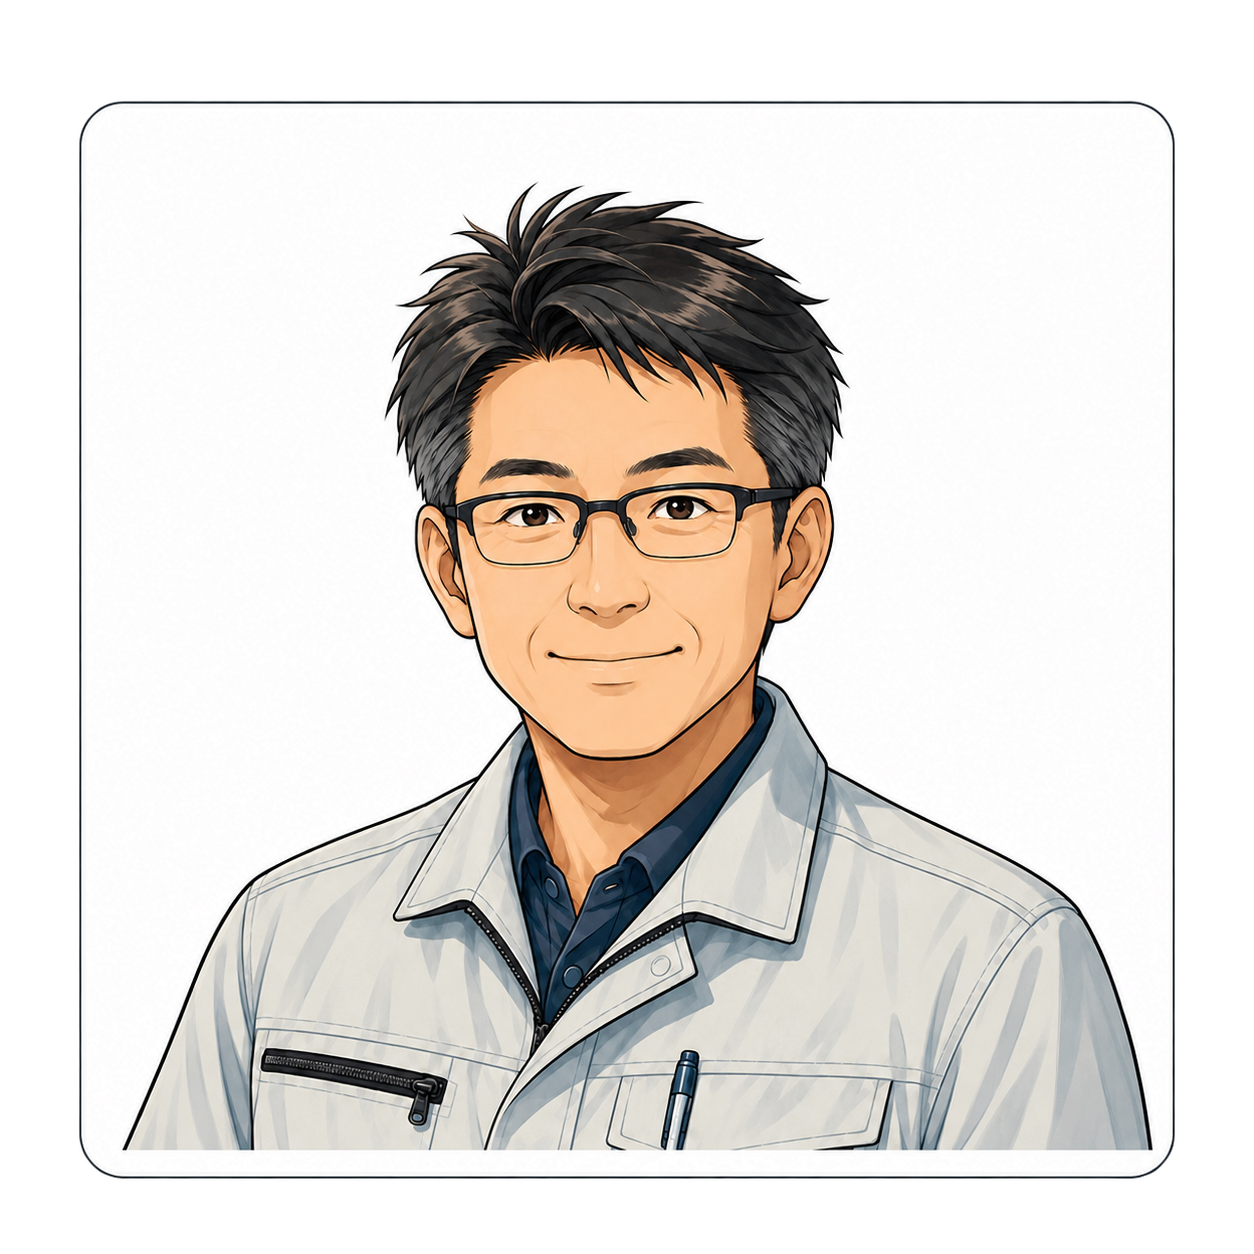
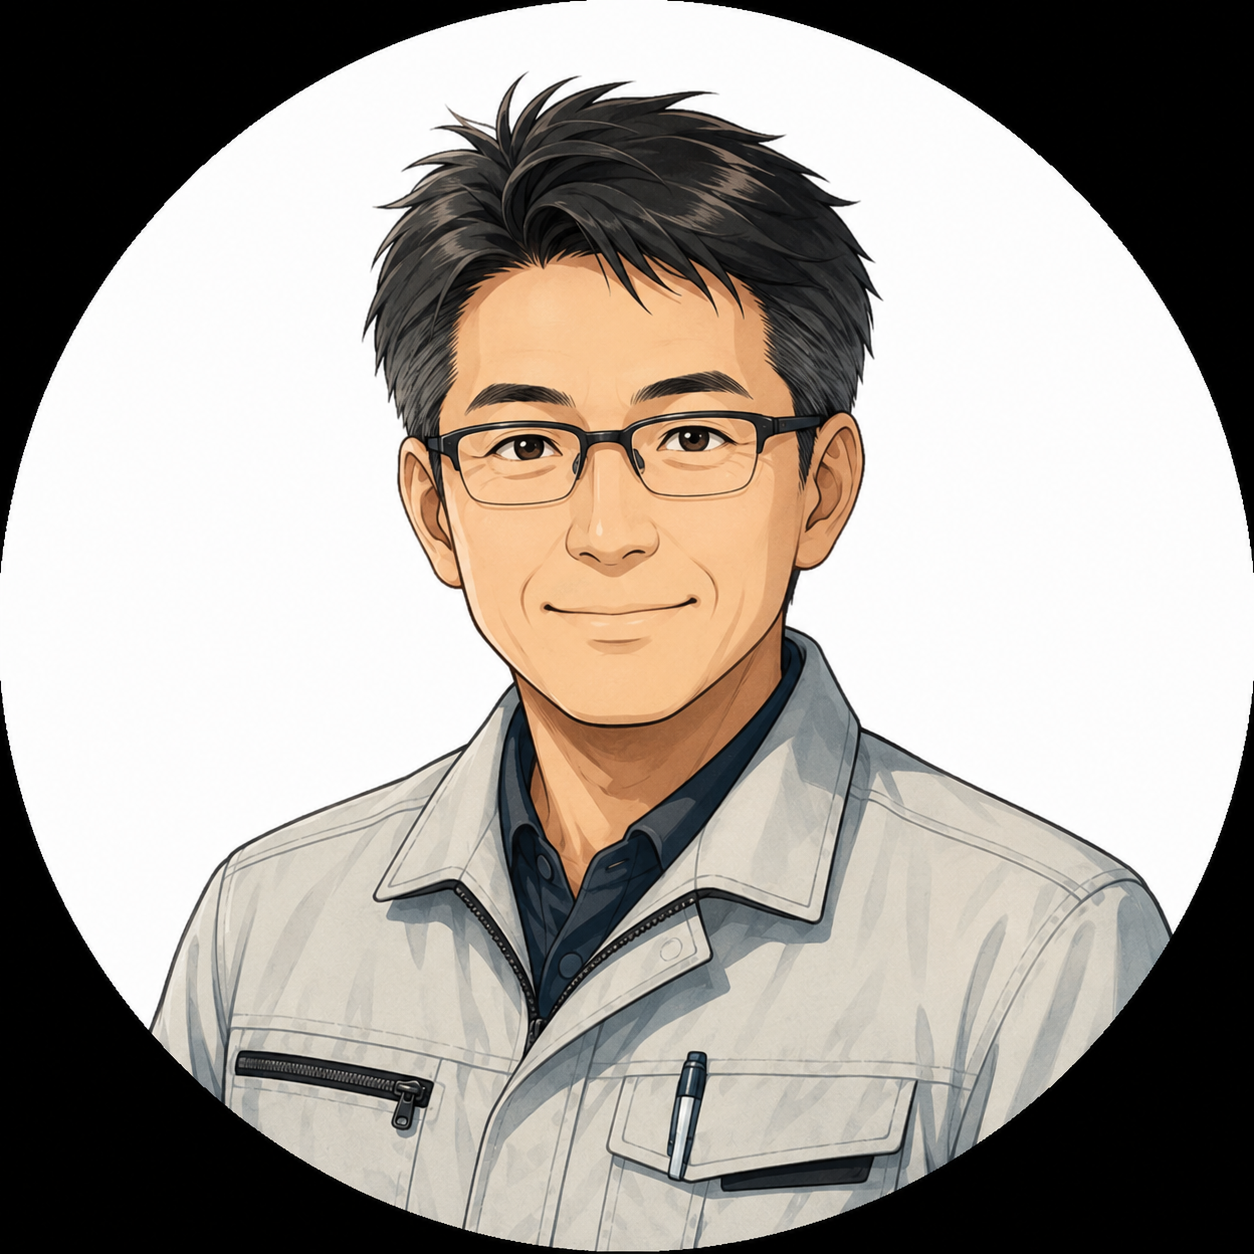
Add files via upload

diff --git a/index.html b/index.html
@@ -80,7 +80,9 @@
       width: 560px; height: 560px; border: 1px solid rgba(255,255,255,.12);
       border-radius: 50%; box-shadow: 0 0 0 36px rgba(255,255,255,.025), 0 0 0 72px rgba(255,255,255,.02);
     }
-    .hero-grid { display: grid; grid-template-columns: 1.25fr .75fr; gap: 70px; align-items: center; position: relative; z-index: 1; }
+    .hero-grid { display: grid; grid-template-columns: 1.05fr .95fr; gap: 52px; align-items: center; position: relative; z-index: 1; }
+    .hero-copy, .hero-side { min-width: 0; }
+    .hero-side { display: flex; flex-direction: column; gap: 24px; }
     .hero .eyebrow { color: var(--blue); }
     .hero h1 { max-width: 780px; margin-bottom: 25px; }
     .hero h1 span { color: #d9b77e; }
@@ -193,9 +195,9 @@
     .footer-inner { display: flex; justify-content: space-between; gap: 20px; }
 
     /* Existing image assets */
-    .hero-visual-wrap { margin-top: 28px; border-radius: 22px; overflow: hidden; background: #eef2f4; border: 1px solid #dfe5e8; }
-    .hero-visual { width: 100%; height: auto; max-height: 360px; object-fit: contain; object-position: center; }
-    .profile-image { width: 100%; aspect-ratio: 1 / 1; object-fit: cover; border-radius: 20px; border: 1px solid var(--line); background: white; }
+    .hero-visual-wrap { width: 100%; aspect-ratio: 4 / 3; border-radius: 22px; overflow: hidden; background: #eef2f4; border: 1px solid #dfe5e8; }
+    .hero-visual { width: 100%; height: 100%; object-fit: cover; object-position: 100% center; }
+    .profile-image { width: 100%; aspect-ratio: 1 / 1; object-fit: contain; object-position: center; padding: 8%; box-sizing: border-box; border-radius: 20px; border: 1px solid var(--line); background: white; }
     .profile-visual { display: flex; flex-direction: column; gap: 18px; }
     .experience-image { width: 100%; aspect-ratio: 16 / 9; object-fit: cover; border-radius: 18px; border: 1px solid var(--line); margin-bottom: 24px; }
     .experiment-card { padding: 0; overflow: hidden; }
@@ -211,6 +213,7 @@
       .hero-grid, .intro-grid, .experience-grid, .ai-grid { grid-template-columns: 1fr; gap: 40px; }
       .theme-grid { grid-template-columns: repeat(2, 1fr); }
       .hero { padding: 85px 0 75px; }
+      .hero-side { width: 100%; }
       .hero-card { max-width: 500px; }
       .experiment-grid { grid-template-columns: 1fr; }
       .x-grid { grid-template-columns: 1fr; }
@@ -228,15 +231,9 @@
         gap: 30px;
         align-items: stretch;
       }
-      .hero-grid > div:first-child { display: contents; }
-      .hero .eyebrow { order: 1; }
-      .hero h1 { order: 2; }
-      .hero-lead { order: 3; }
-      .hero-card { order: 4; }
-      .hero .actions { order: 5; }
-      .hero-meta { order: 6; }
-      .hero-grid > div:first-child,
-      .hero-card {
+      .hero-copy { order: 1; }
+      .hero-side { order: 2; }
+      .hero-copy, .hero-side, .hero-card {
         width: 100%;
         min-width: 0;
       }
@@ -289,11 +286,10 @@
   <main id="top">
     <section class="hero">
       <div class="container hero-grid">
-        <div>
+        <div class="hero-copy">
           <div class="eyebrow">Design × Improvement × AI</div>
           <h1><span class="hero-line">設計28年の経験から、</span><span class="hero-line"><span>考える時間</span>を取り戻す。</span></h1>
           <p class="hero-lead">設計者が「考える仕事」に集中できる環境を。設計現場で使える業務効率化・手戻り防止・設計改善・AI活用の考え方を発信しています。</p>
-          <div class="hero-visual-wrap"><img class="hero-visual" src="assets/hero-design.png" alt="設計者がCAD画面を確認する設計現場" /></div>
           <div class="hero-meta">
             <span class="pill">樹脂成形部品設計28年</span>
             <span class="pill">150部品以上</span>
@@ -304,16 +300,19 @@
             <a class="button button-outline" href="https://x.com/ichiro_Advisor" target="_blank" rel="noopener">Xを見る ↗</a>
           </div>
         </div>
-        <aside class="hero-card" aria-label="実務経験">
-          <div class="eyebrow">Practical experience</div>
-          <div class="number">28<span class="unit">年</span></div>
-          <p>樹脂成形部品設計の実務経験</p>
-          <hr>
-          <div class="number">150<span class="unit">+</span></div>
-          <p>設計してきた部品数</p>
-          <hr>
-          <p><strong>見つけるのはAI。</strong><br><strong>判断するのは設計者。</strong></p>
-        </aside>
+        <div class="hero-side">
+          <div class="hero-visual-wrap"><img class="hero-visual" src="assets/hero-design.png" alt="設計者がCAD画面を確認する設計現場" /></div>
+          <aside class="hero-card" aria-label="実務経験">
+            <div class="eyebrow">Practical experience</div>
+            <div class="number">28<span class="unit">年</span></div>
+            <p>樹脂成形部品設計の実務経験</p>
+            <hr>
+            <div class="number">150<span class="unit">+</span></div>
+            <p>設計してきた部品数</p>
+            <hr>
+            <p><strong>見つけるのはAI。</strong><br><strong>判断するのは設計者。</strong></p>
+          </aside>
+        </div>
       </div>
     </section>
 
